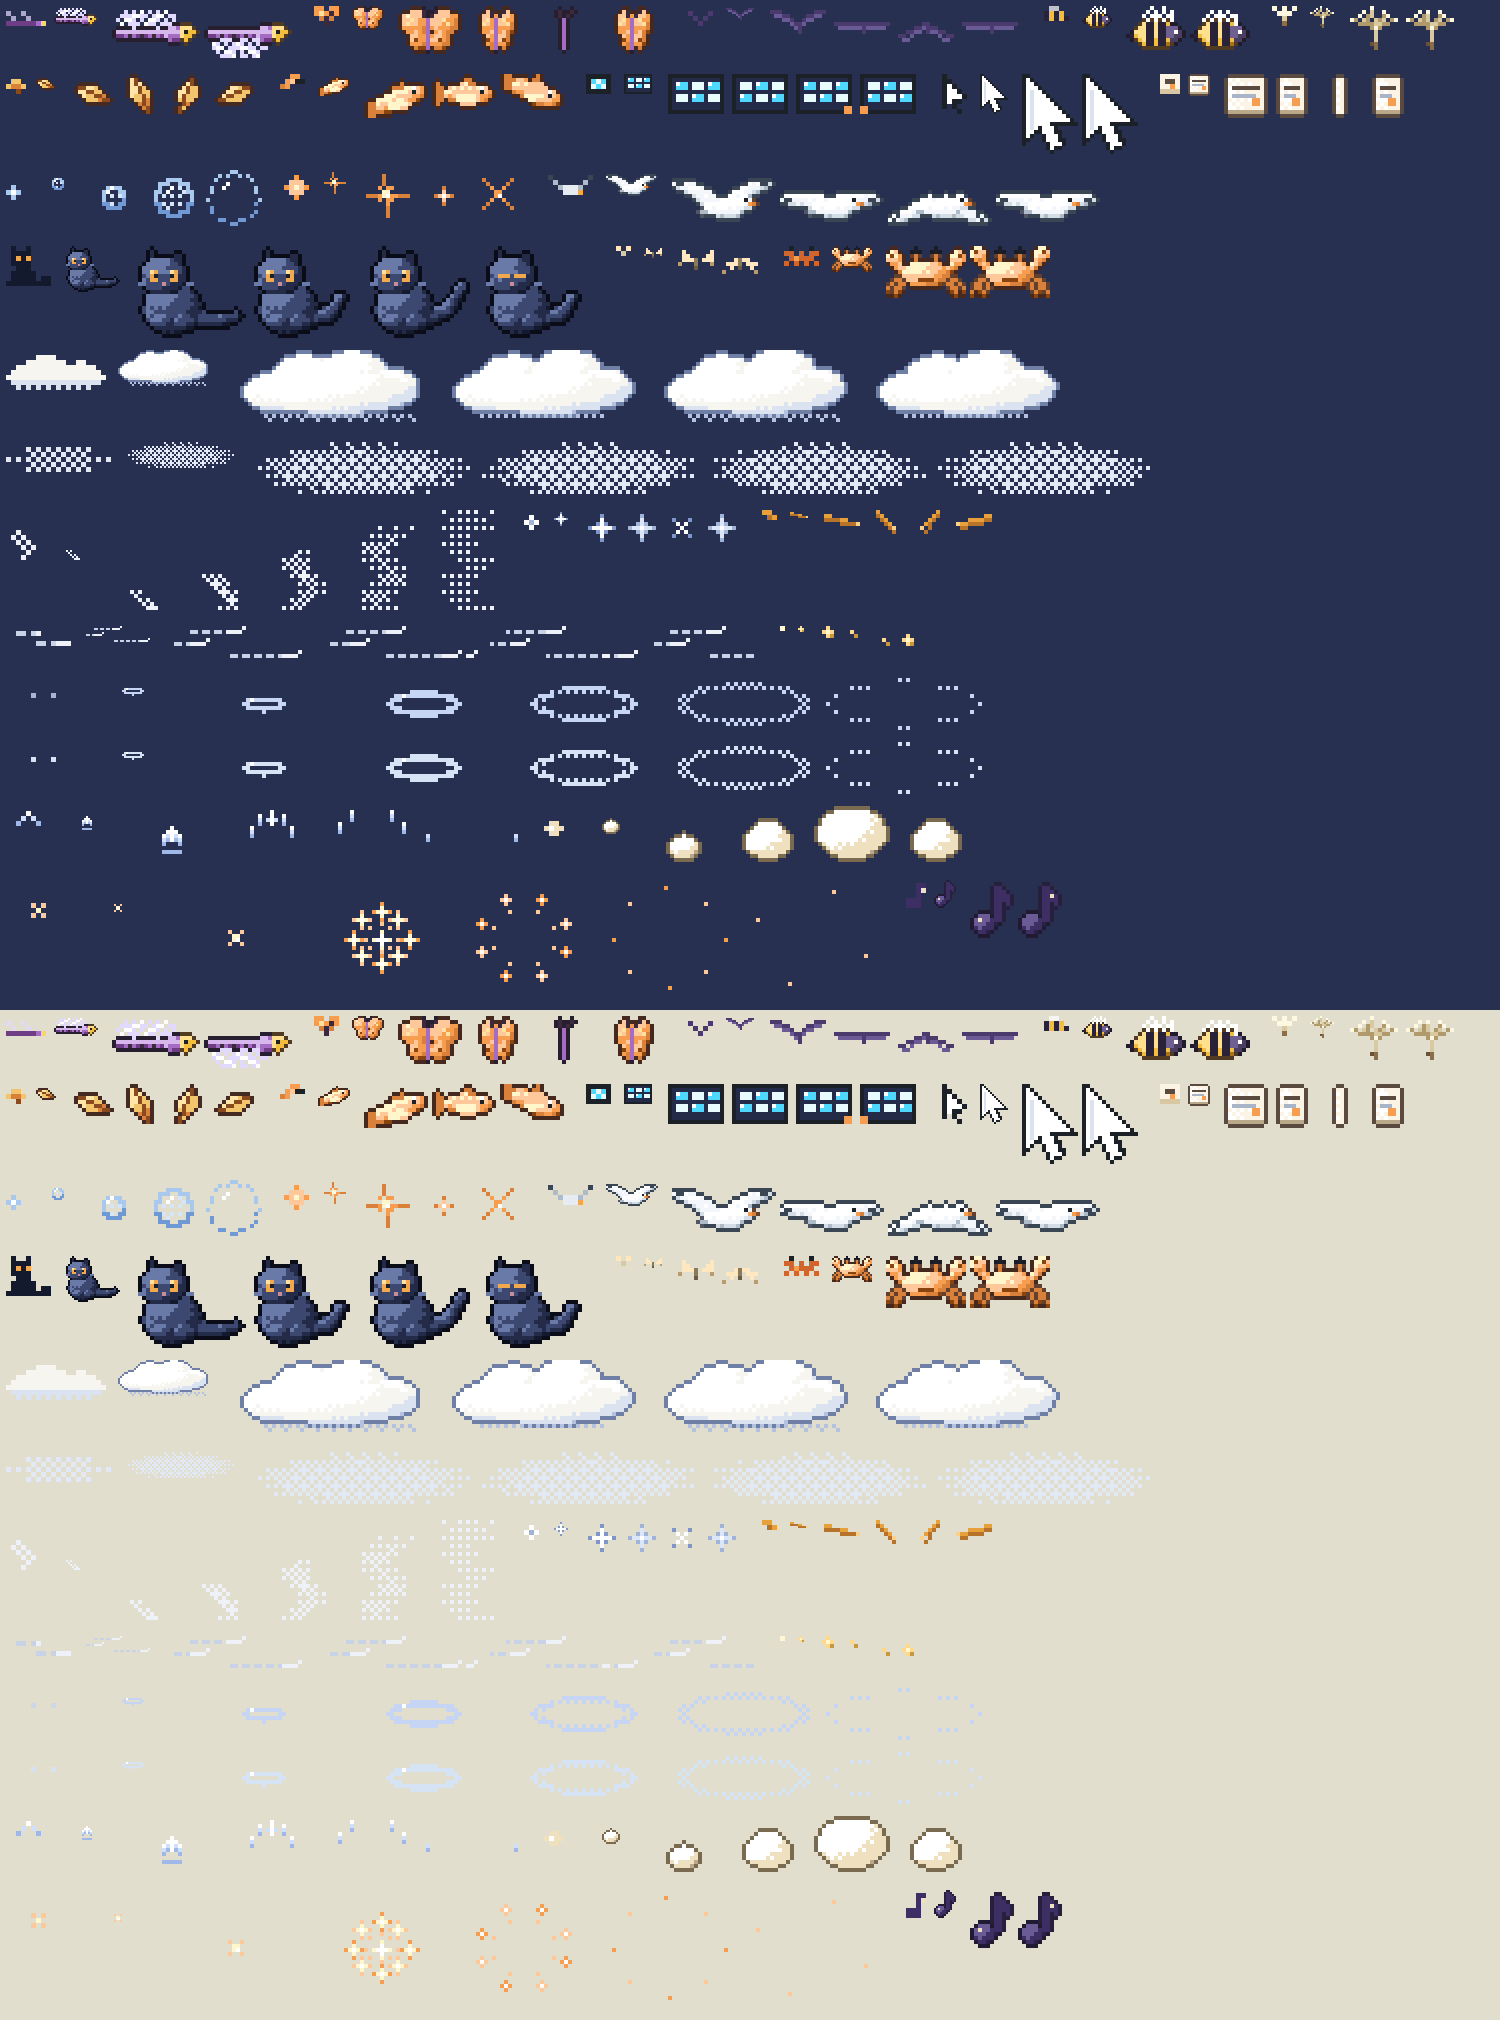
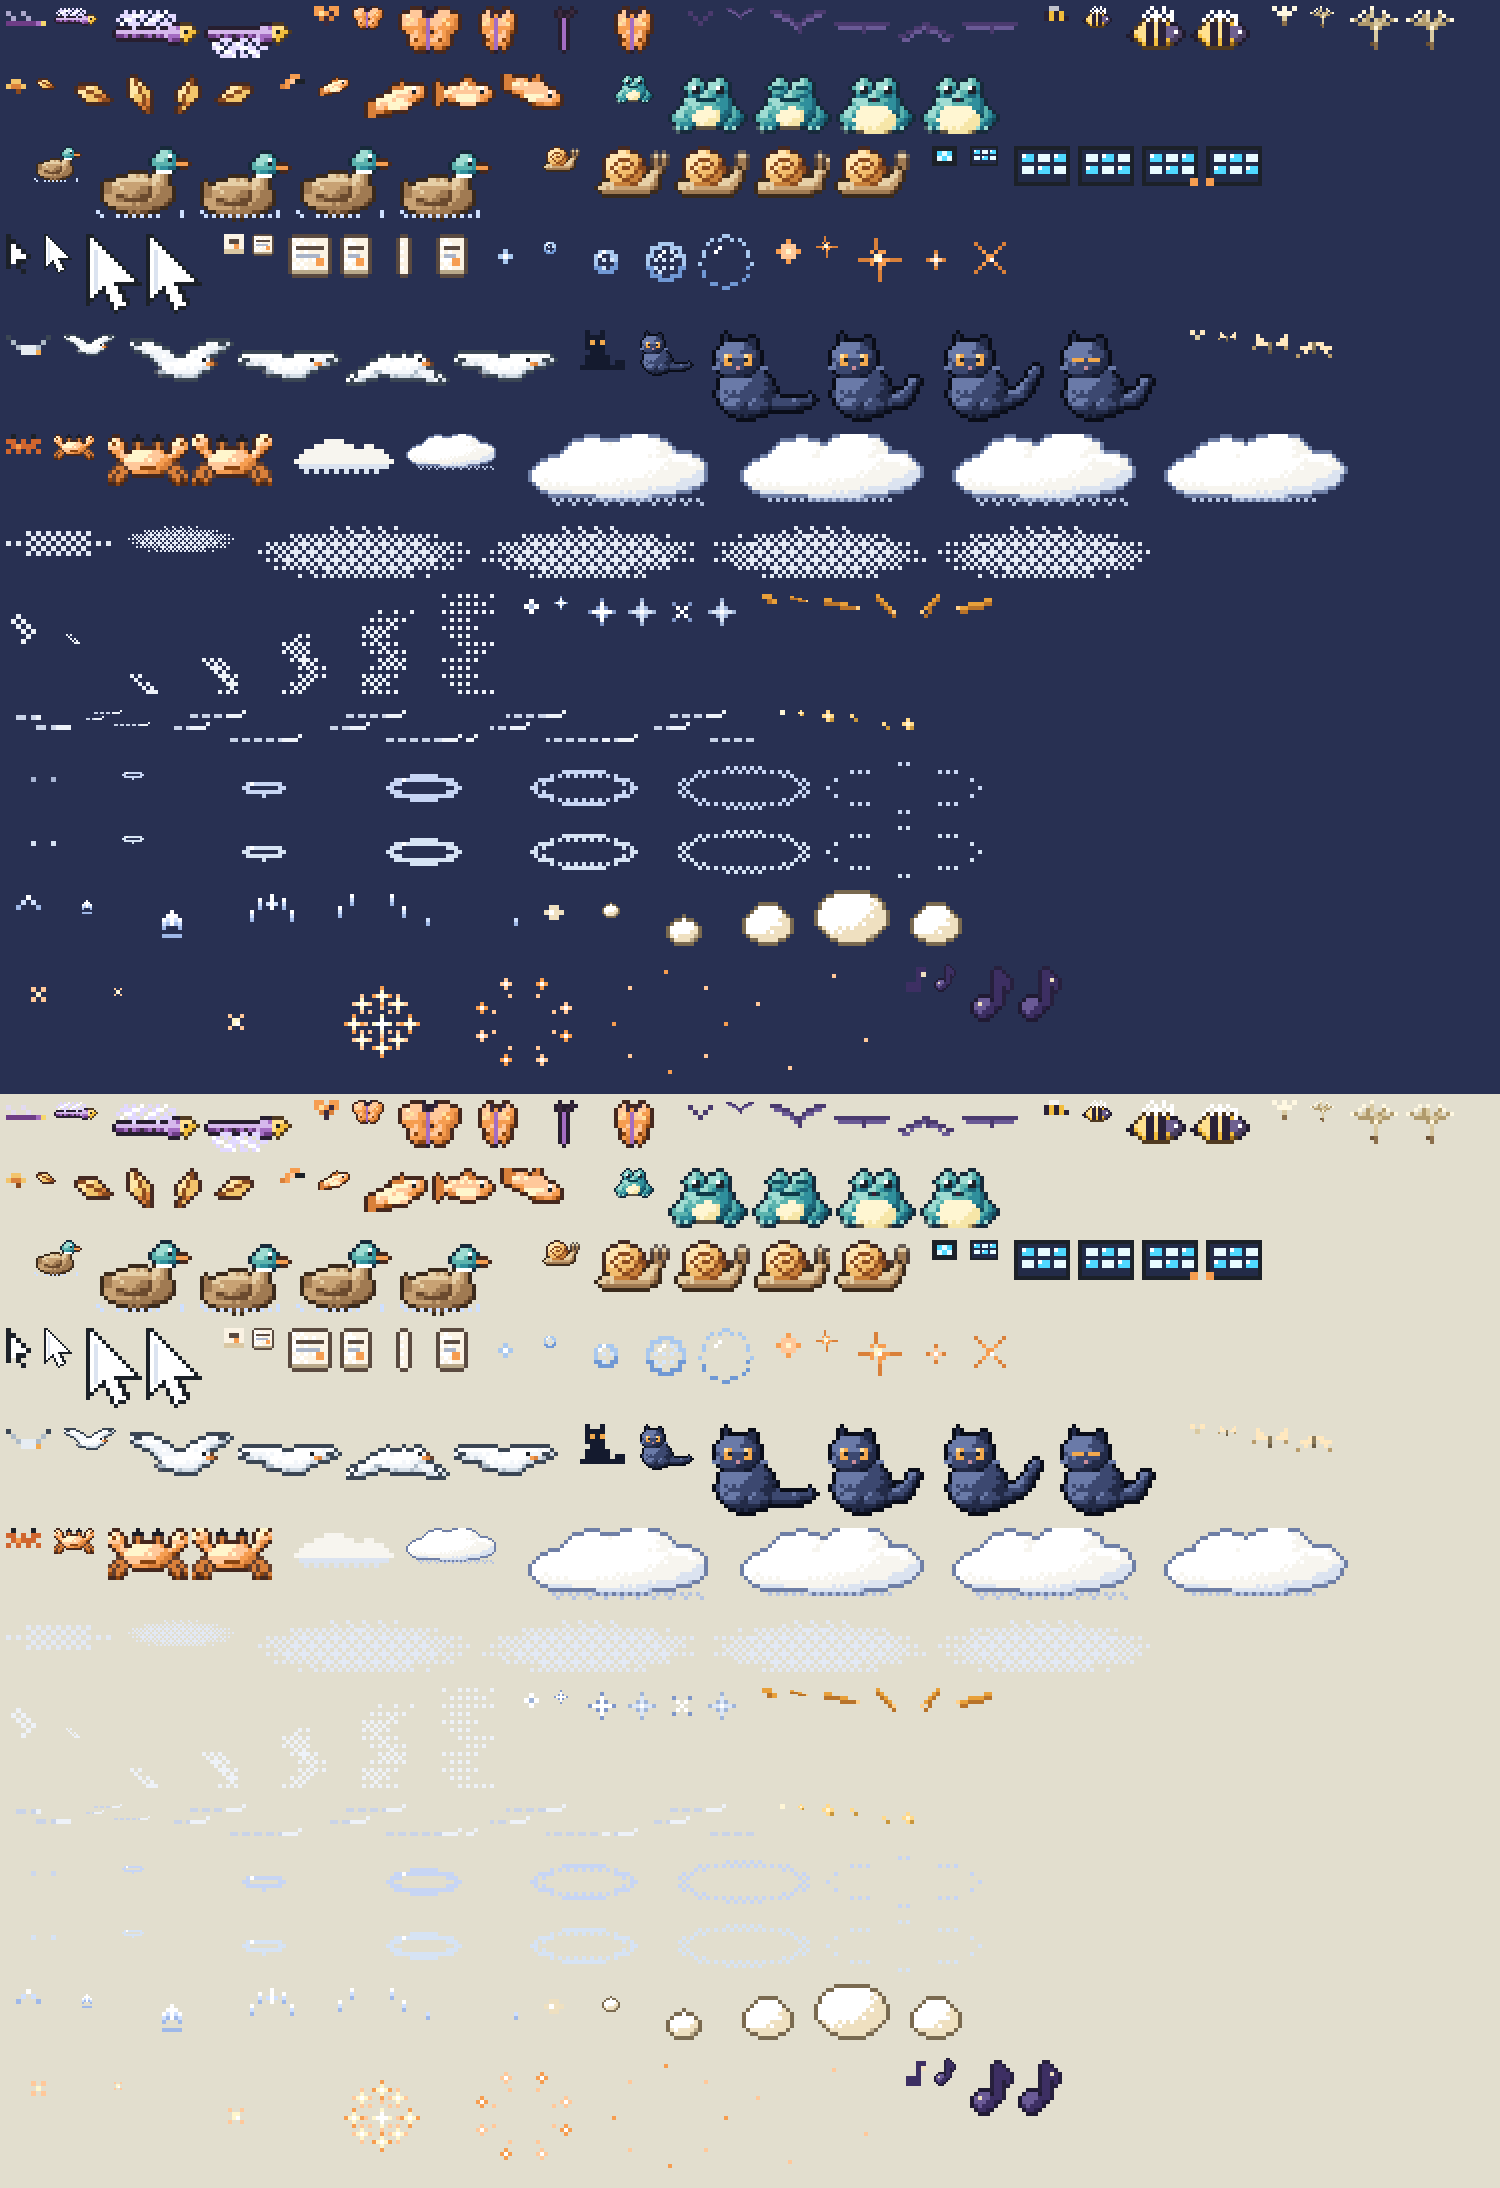
Acteurs HD du prologue : grenouille, canard, escargot
- acteurs_hd.py : trois bêtes peintes jusqu'ici dans le décor deviennent de vrais acteurs, à la demande du moteur
- acteur-grenouille : 4 images (repos, repos avec clignement, gorge gonflée deux fois), ancre au milieu du bas
- acteur-canard et acteur-escargot : 4 images chacun, tête à droite
- export, référence et planche acteurs.png régénérés

diff --git a/outils/sprites/acteurs_hd.py b/outils/sprites/acteurs_hd.py
@@ -143,6 +143,69 @@ def poisson(f, i):
     f.px(12.4, y + pente * 3 - 0.8, ENCRE); f.px(12.4, y + pente * 3 - 1.6, "#ffffff")
 
 
+SARCELLE = Rampe("#124a5a", "#1d6578", "#2f8f9c", "#5bb3ae", "#9fdcd2")
+CANARD = Rampe("#6b4a2e", "#a07a52", "#c8a274", "#e6cfa6", cerne="#3a2a1c")
+COQUILLE = Rampe("#8a4a1f", "#c8803a", "#f2bd6e", "#ffe6b0")
+
+
+# Trois bêtes du prologue, peintes jusqu'ici dans le décor, devenues de vrais acteurs à la demande du moteur.
+@acteur("grenouille", 20, 15, 4, 400)
+def grenouille(f, i):
+    gonfle = i >= 2                                          # repos, repos (elle cligne), gorge gonflée deux fois
+    g = 14
+    for cote in (-1, 1):                                     # les cuisses repliées et les pieds
+        f.boule(10 + cote * 5.6, g - 3, 3.0, 3.0, SARCELLE, biais=0.3 if cote > 0 else 0.4)
+        f.px(10 + cote * 7.4 - 0.5, g - 0.6, SARCELLE[4]); f.px(10 + cote * 5.4 - 0.5, g - 0.6, SARCELLE[4])
+    c = f.boule(10, g - 5.4, 6.2, 4.8, SARCELLE)
+    f.boule(9.6, g - 3.2 + (0.6 if gonfle else 0), 3.6 + (1.6 if gonfle else 0), 2.4 + (1.4 if gonfle else 0),
+            Rampe("#c9b06c", "#f6e6a8", "#fff6d2"), biais=0.6)                       # le ventre, la gorge qui se gonfle
+    for cote, x in ((-1, 6.8), (1, 12.6)):                   # les yeux, en haut du crâne
+        f.boule(x, g - 10.4, 2.4, 2.3, SARCELLE, biais=0.46)
+        if i == 1:
+            f.trait(x - 1, g - 10.4, x + 0.6, g - 10.4, SARCELLE[0])
+        else:
+            f.px(x - 0.5, g - 10.6, "#ffffff"); f.px(x + 0.5, g - 10.6, ENCRE); f.px(x - 0.5, g - 9.6, ENCRE); f.px(x + 0.5, g - 9.6, ENCRE)
+    if gonfle:
+        f.px(8.6, g - 7.2, "#0e3a48"); f.px(9.6, g - 7.2, "#3b1f33"); f.px(10.6, g - 7.2, "#0e3a48")     # elle chante
+    else:
+        f.trait(7.6, g - 7.2, 11.6, g - 7.2, "#0e3a48", dans=c)
+
+
+@acteur("canard", 24, 19, 4, 300)
+def canard(f, i):
+    bob = (0, 1, 0, 1)[i]                                    # il se dandine sur l'eau ; la tête est à droite
+    g = 17
+    f.oy = bob
+    c = f.boule(10.5, g - 5, 8.6, 4.8, CANARD)
+    f.poly([(1.4, g - 9.4 - (i % 2)), (5, g - 6.4), (2.6, g - 4.6)], CANARD, ton=1)                      # la queue
+    aile = f.boule(9, g - 5.4, 5.2, 2.8, CANARD, biais=0.2)
+    f.courbe([(5.6, g - 4.8), (9, g - 3.4), (12.6, g - 4.8)], CANARD[0], dans=aile)
+    f.tube([(15.6, g - 7.6, 2.0), (17, g - 11.6, 1.8)], CANARD, biais=0.44)                               # le cou
+    f.boule(17.4, g - 13, 3.0, 2.8, SARCELLE, biais=0.44)                                                 # la tête sarcelle
+    f.trait(15.6, g - 10.4, 18.6, g - 10.4, "#ffffff")                                                    # le collier blanc
+    f.poly([(19.8, g - 13.6), (23.4, g - 12.6), (19.8, g - 11.6)], ORANGE, ton=2)                         # le bec
+    f.px(18.2, g - 13.8, ENCRE); f.px(18.2, g - 14.6, "#ffffff")
+    f.oy = 0
+    for x in range(1 + (i % 2), 22, 2):                      # le sillage, en trame
+        f.px(x, g + 0.4, "#cfe0ff", "")
+    f.px(0 + i % 2, g - 0.6, "#cfe0ff", ""); f.px(21 - i % 2, g - 0.6, "#cfe0ff", "")
+
+
+@acteur("escargot", 19, 13, 4, 500)
+def escargot(f, i):
+    e = (0.0, 1.0, 2.0, 1.0)[i]                              # il s'étire puis se ramasse ; la tête est à droite
+    g = 12
+    f.tube([(2.4 - e * 0.3, g - 1.6, 1.2), (8, g - 2.0, 1.9), (14 + e * 0.6, g - 2.2, 1.7)], CANARD, biais=0.5)     # le pied
+    f.tube([(14 + e * 0.6, g - 2.6, 1.5), (15.4 + e * 0.6, g - 5.4, 1.2)], CANARD, biais=0.5)                       # le cou
+    for dx in (0.0, 1.8):                                    # les deux cornes, un œil au bout
+        f.trait(15 + e * 0.6 + dx, g - 6.4, 15.4 + e * 0.6 + dx, g - 9 + (0.6 if i == 2 and dx else 0), CANARD[1])
+        f.px(15.4 + e * 0.6 + dx, g - 9.6 + (0.6 if i == 2 and dx else 0), CANARD[3])
+    c = f.boule(7.6, g - 6.2, 5.0, 4.6, COQUILLE)
+    f.courbe([(7.6, g - 6.2), (9.4, g - 6.8), (9.2, g - 8.4), (6.8, g - 8.8), (5, g - 6.6), (6.6, g - 4), (10, g - 4.2), (11.2, g - 7)],
+             COQUILLE[0], dans=c)                             # la spirale
+    f.px(5.6, g - 8.6, COQUILLE[3])
+
+
 # ---------------------------------------------------------------------------------------------------------------------
 # La Grande Panne
 # ---------------------------------------------------------------------------------------------------------------------

diff --git a/outils/sprites/planches_personnages_hd.py b/outils/sprites/planches_personnages_hd.py
@@ -229,7 +229,9 @@ def acteurs(z=4):
         x, y, hmax = 6, 6, 0
         for nom in A.ORDRE:
             a = A.ACTEURS[nom]
-            vieux = PL.sprite_image(fins["acteur-" + nom], 5, 0)
+            # Un acteur né en HD (grenouille, canard, escargot) n'a pas d'ancienne version : sa case reste vide.
+            vieux = PL.sprite_image(fins["acteur-" + nom], 5, 0) if "acteur-" + nom in fins else \
+                Image.new("RGBA", (20, 20), (0, 0, 0, 0))
             large = vieux.width + 8 + a["w"] * 2 + 14 + a["n"] * (a["w"] * z + 4) + 18
             if x + large > W - 6:
                 x, y, hmax = 6, y + hmax + 12, 0

diff --git a/docs/SPRITES.md b/docs/SPRITES.md
@@ -240,7 +240,7 @@ py outils/sprites/planches_personnages_hd.py          # planches et GIF, dans do
 | La Grande Panne (13) | dessinés et exportés (33 fichiers, 194 Ko) ; pas encore lus par le moteur | [groupe-grande-panne.png](maquettes/personnages/groupe-grande-panne.png) |
 | Le phare éteint (7) | dessinés et exportés (17 fichiers) ; pas encore lus par le moteur | [groupe-phare-eteint.png](maquettes/personnages/groupe-phare-eteint.png) |
 | Petit Nuage (9) | dessinés et exportés (19 fichiers) ; pas encore lus par le moteur | [groupe-petit-nuage.png](maquettes/personnages/groupe-petit-nuage.png) |
-| Acteurs de scène (29) | dessinés et exportés (`acteur-<nom>.txt`, 20 Ko) ; pas encore lus par le moteur | [acteurs.png](maquettes/personnages/acteurs.png) |
+| Acteurs de scène (32 : les 29 d'aujourd'hui, plus `grenouille`, `canard` et `escargot`, peints jusqu'ici dans le décor du prologue) | dessinés et exportés (`acteur-<nom>.txt`, 20 Ko) ; pas encore lus par le moteur | [acteurs.png](maquettes/personnages/acteurs.png) |
 
 Planches par personnage (toutes les humeurs, sept images) et GIF : `docs/maquettes/personnages/<campagne>-<id>.png`
 et `.gif`.
